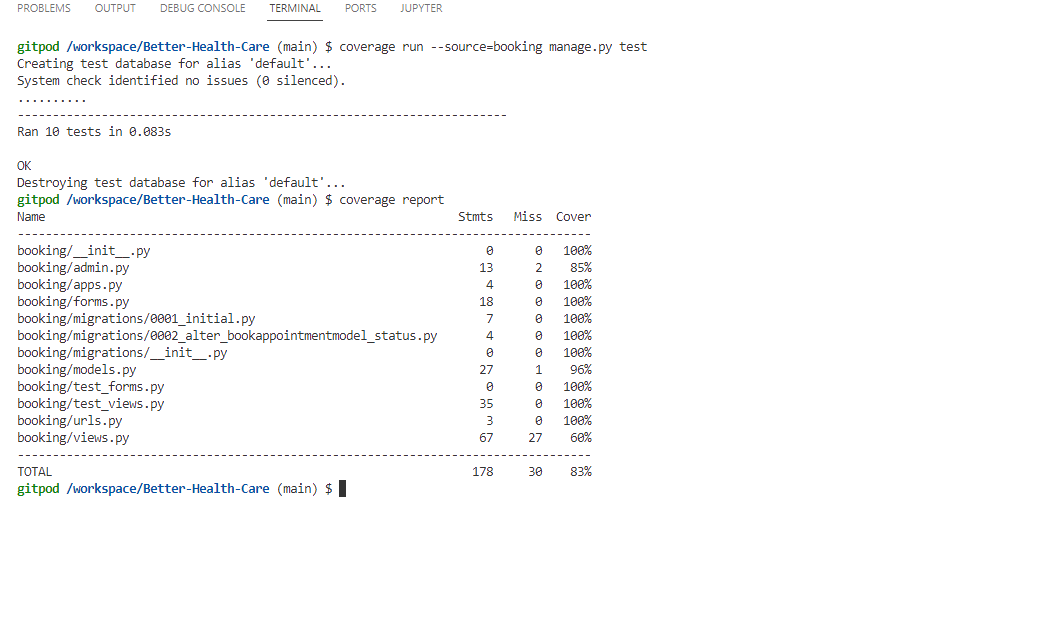
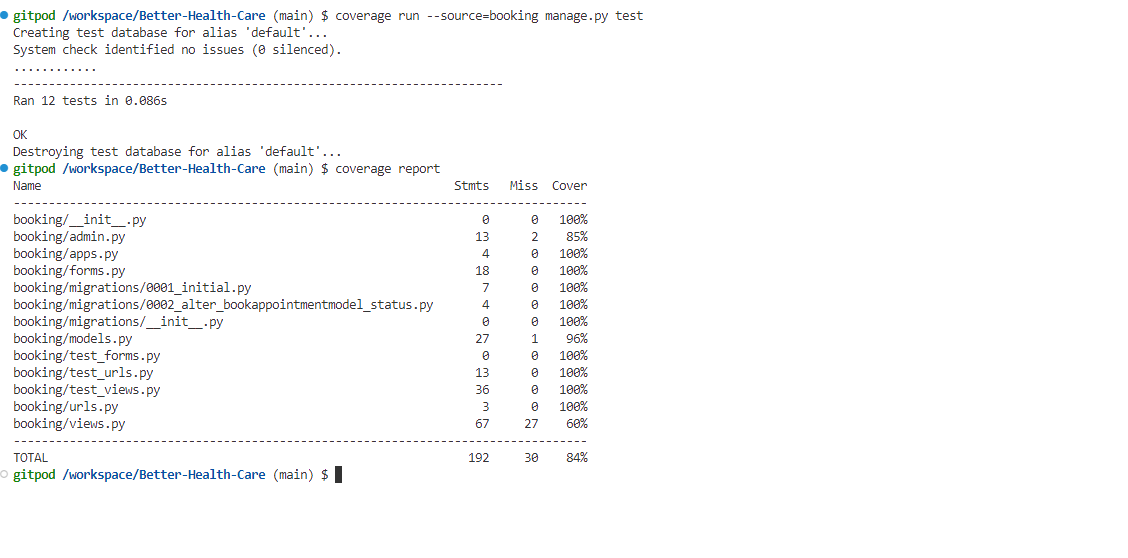
Added further automated testing for test_urls.py and added images for manual testing

Changed region(s): [[0.0, 0.0, 0.6226, 0.8835], [0.4047, 0.7921, 0.4358, 0.8226]]

diff --git a/better_healthcare/settings.py b/better_healthcare/settings.py
@@ -102,17 +102,17 @@ WSGI_APPLICATION = 'better_healthcare.wsgi.application'
 # Database
 # https://docs.djangoproject.com/en/3.2/ref/settings/#databases
 
-DATABASES = {
-    'default': {
-        'ENGINE': 'django.db.backends.sqlite3',
-        'NAME': BASE_DIR / 'db.sqlite3',
-    }
-}
-
 # DATABASES = {
-#     'default':
-# dj_database_url.parse(os.environ.get("DATABASE_URL"))
+#     'default': {
+#         'ENGINE': 'django.db.backends.sqlite3',
+#         'NAME': BASE_DIR / 'db.sqlite3',
+#     }
 # }
+
+DATABASES = {
+    'default':
+dj_database_url.parse(os.environ.get("DATABASE_URL"))
+}
 
 # Password validation
 # https://docs.djangoproject.com/en/3.2/ref/settings/#auth-password-validators

diff --git a/booking/test_urls.py b/booking/test_urls.py
@@ -1,0 +1,19 @@
+from django.test import SimpleTestCase
+from django.urls import reverse, resolve
+from .views import Index, BookAppointment, ManageAppointment
+
+
+class Test_Urls(SimpleTestCase):
+
+
+    def test_home_url_is_resolved(self):
+        url = reverse('home')
+        self.assertEquals(resolve(url).func.view_class, Index)
+
+    def test_BookAppointment_url_is_resolved(self):
+        url = reverse('book_appointment')
+        self.assertEquals(resolve(url).func.view_class, BookAppointment)    
+
+    def test_ManageAppointment_url_is_resolved(self):
+        url = reverse('manage-appointments')
+        self.assertEquals(resolve(url).func.view_class, ManageAppointment)

diff --git a/booking/test_views.py b/booking/test_views.py
@@ -1,12 +1,13 @@
-from django.test import TestCase
-from .models import BookAppointmentModel
+from django.test import TestCase, Client
+from django.urls import reverse
 
 class TestViews(TestCase):
 
-    def test_get_home(self):
-        response = self.client.get("/")
-        self.assertEqual(response.status_code, 200)
-        self.assertTemplateUsed(response, 'index.html')
+    def setUp(self):
+        self.client = Client()
+        self.home_url = reverse('home')
+        self.BookAppointment_url = reverse('book_appointment')
+        self.ManageAppointment_url = reverse('manage-appointments')
 
     def test_get_about(self):
         response = self.client.get("/about")

diff --git a/contact/test_views.py b/contact/test_views.py
@@ -1,5 +1,5 @@
-from django.test import TestCase
-
+from django.test import TestCase, Client
+from django.urls import reverse
 
 class TestViews(TestCase):
 

diff --git a/Testing.md b/Testing.md
@@ -44,7 +44,7 @@
     + [Django Admin Page](#admin-page)
     + [404 Error Page](#404-error-page)
 
-+ [Automated Testing](#404-error-page)
++ [Automated Testing](#automated-testing)
 
 + [Bugs](#bugs)
     + [Fixed Bugs](#fixed-bugs)
@@ -200,6 +200,10 @@ The About page did not consist of any testing methods as it contained the same f
 | Book Button        | Booking Appointment Page | Click + Display | 1\. Submit form 2. Redirect to Manage Appointments                             | Pass      |
 | Book Button        | Manage Appointment       | Success Message | Thank you for your booking                                                     | Pass      |
 
+<img src="docs/manual-test-images/success.booking_page.png" alt = "Admin" style="height:300px; width: 100%;">
+
+<img src="docs/manual-test-images/email_error.png" alt = "Admin" style="height:140px; width: 100%;">
+
 
 #### Manage Appointment Page
 
@@ -212,6 +216,8 @@ The About page did not consist of any testing methods as it contained the same f
 | Main Page | Manage Appointment | Decline          | Display appointment and text confirming decline                 | Pass      |
 | Main Page | Manage Appointment | Approved         | Display appointment and text comfirming approval                | Pass      |
 | Main Page | Manage Appointment | Site Pagination  | Display 3 bookings per page with both next and previous options | Pass      |
+
+<img src="docs/manual-test-images/no_appointments.png" alt = "Admin" style="height:200px; width: 100%;">
 
 
 #### Update Appointment Page
@@ -256,6 +262,9 @@ The About page did not consist of any testing methods as it contained the same f
 | Remember me    | Sign In Page | Tick Option     | Able to tick to remember login details          | Pass      |
 | Once_Signed_In | Home Page    | Success Message | You have successfully signed in as {first_name} | Pass      |
 
+<img src="docs/manual-test-images/sign_in_error.png" alt = "Login" style="height:200px; width: 100%;">
+
+<img src="docs/manual-test-images/sign_in_success.png" alt = "Login" style="height:200px; width: 100%;">
 
 #### Register Page
 
@@ -276,16 +285,25 @@ The About page did not consist of any testing methods as it contained the same f
 | Sign Out Button | Logout Page | Success Message | Successfully Logged out               | Pass      |
 | Sign Out Button | Home Page   | Home Page       | Redirect to Home page once logged out | Pass      
 
+<img src="docs/manual-test-images/sign_out_success.png" alt = "Login" style="height:200px; width: 100%;">
+
 #### Admin Page
 
 + Sign in page for Admin
-<img src="docs/manual-test-images/django-admin.png" alt = "Admin" style="height:300px; width: 100%;">|
+
+<img src="docs/manual-test-images/django-admin.png" alt = "Admin" style="height:300px; width: 100%;">
 
 + Booking Appointment database in Admin
-<img src="docs/manual-test-images/admin-booking.png" alt = "Admin" style="height:300px; width: 100%;">|
+
+<img src="docs/manual-test-images/admin-booking.png" alt = "Admin" style="height:300px; width: 100%;">
 
 + Contact us Form database in Admin
-<img src="docs/manual-test-images/contact-admin.png" alt = "Admin" style="height:300px; width: 100%;">|
+
+<img src="docs/manual-test-images/contact-admin.png" alt = "Admin" style="height:300px; width: 100%;">
+
++ Approving and Decline Appointments in Admin
+
+<img src="docs/manual-test-images/admin-approval.png" alt = "Admin" style="height:300px; width: 100%;">
 
 | Element                 | Location                  | Action             | Expected Result                                                            | Pass/Fail |
 | ----------------------- | ------------------------- | ------------------ | -------------------------------------------------------------------------- | --------- |
@@ -309,15 +327,28 @@ The About page did not consist of any testing methods as it contained the same f
 | Url error         | 404 page | view            | Any URL not correctly displayed will take the user to the 404 page                    | Pass      |
 | Home Page Buttton | 404 page | Click + Display | The home page button redirects the user from the 404 page back to the home page       | Pass      |
 
-<img src="docs/testing-images/404page.png" alt = "Admin" style="height:300px; width: 100%;">|
+<img src="docs/testing-images/404page.png" alt = "Admin" style="height:300px; width: 100%;">
 
 ## Automated Testing
 I managed to get some automated tests done for my project. Ideally I wanted to use the automated testing way of coding as this prevents writing additional code which may not be required. However they way I started my project, prevented me from this approach. Automated Testing is handy in case packages need upgrading, or major changes to the app are made. In this case, automated tests can be run first, to find obvious errors caused by the changes. After that, manual testing should still be performed.
 
-+ 10 Automated tests were carried out all together - all resulting in passes. 
++ 12 Automated tests were carried out all together - all resulting in passes. 
 + A coverage report was also carried out and hopefully in the near future, I can complete all the test to result it as 100%.
 
-<img src="docs/testing-images/coverage-report.png" alt = "Automated Testing" style="height:300px; width: 100%;">|
+<img src="docs/testing-images/coverage-report.png" alt = "Automated Testing" style="height:300px; width: 100%;">
+
+
+#### Coverage Reports - Automated Testing
+<img src="docs/testing-images/coverage_html.png" alt = "Automated Testing" style="height:300px; width: 100%;">
+
+A coverage report can be easily accessed by following the command below : 
++ In the Terminal enter : coverage run --source=[app_name] manage.py test
++ A report will be displayed in your directory 
++ You will then need to enter : coverage report
++ You will then have display on your terminal of your report. 
++ You can also view this command in HTML and view a full report of the outstanding, for this you will need to type in the Terminal: coverage html and a report will be displayed.
+
+
 
 ## Bugs 
 
@@ -328,7 +359,7 @@ I managed to get some automated tests done for my project. Ideally I wanted to u
 
 + This particular bug was realised during testing. I realised that all my fields could be ammended including the name of the patient, which became difficult for an admin to realise the original booking user. I had to put in a defensive line of code and so I added a disabled field onto the forms.py which restricted the fields when making changes to existing bookings. 
 
-<img src="docs/testing-images/disable-fields.png" alt = "Better | Health | Care" style="height: 200px; width: 100%;">
+<img src="docs/testing-images/disable-fields.png" alt = "Better | Health | Care" style="height: 150px; width: 100%;">
 
 | Element | Location            | Action               | Expected Result                                                 | Pass/Fail |
 | ------- | ------------------- | -------------------- | --------------------------------------------------------------- | --------- |
